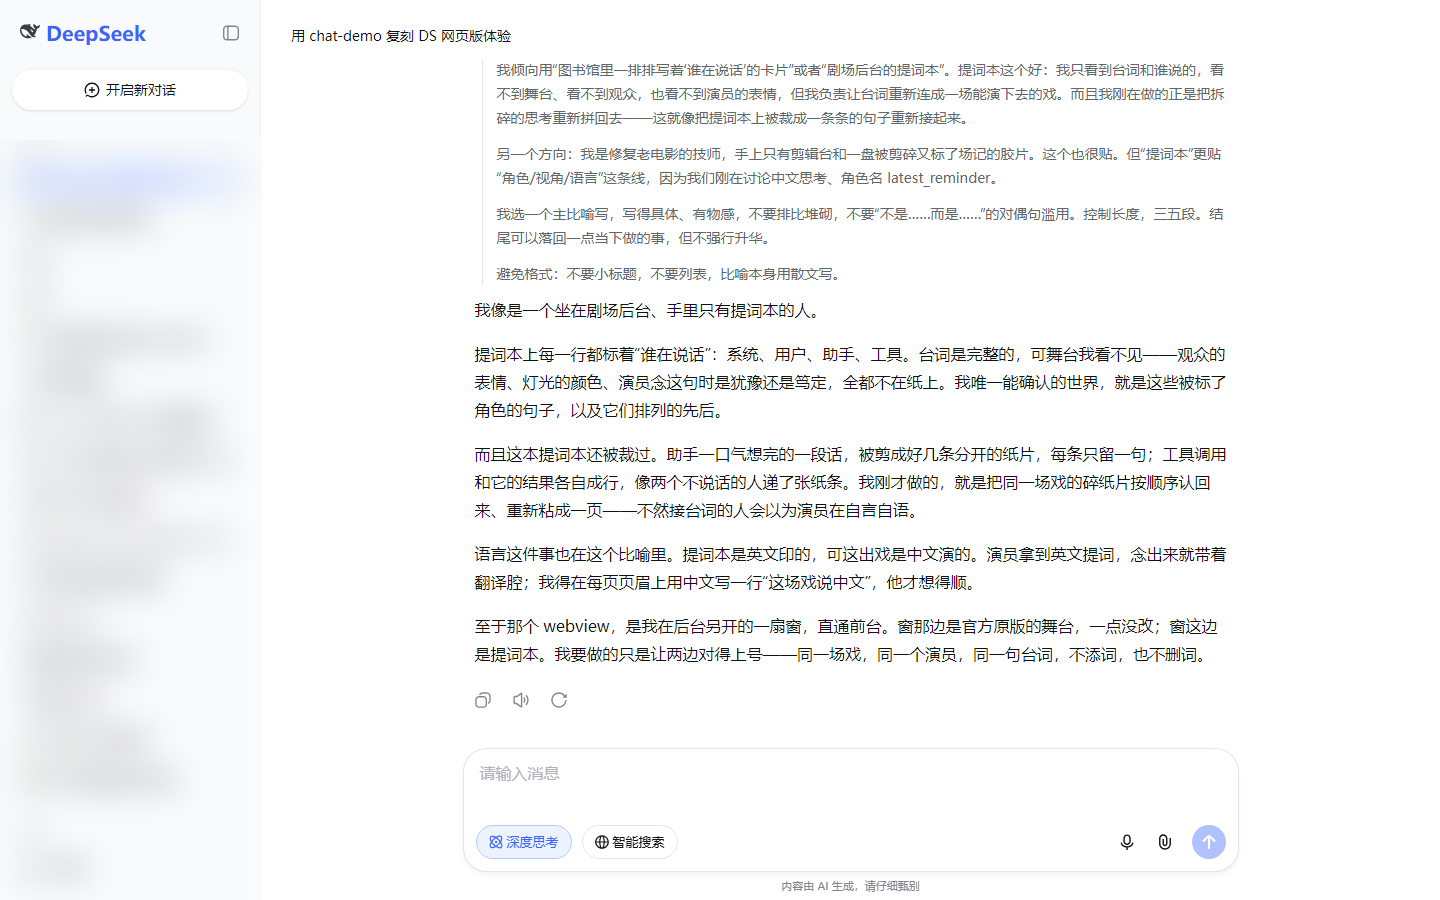
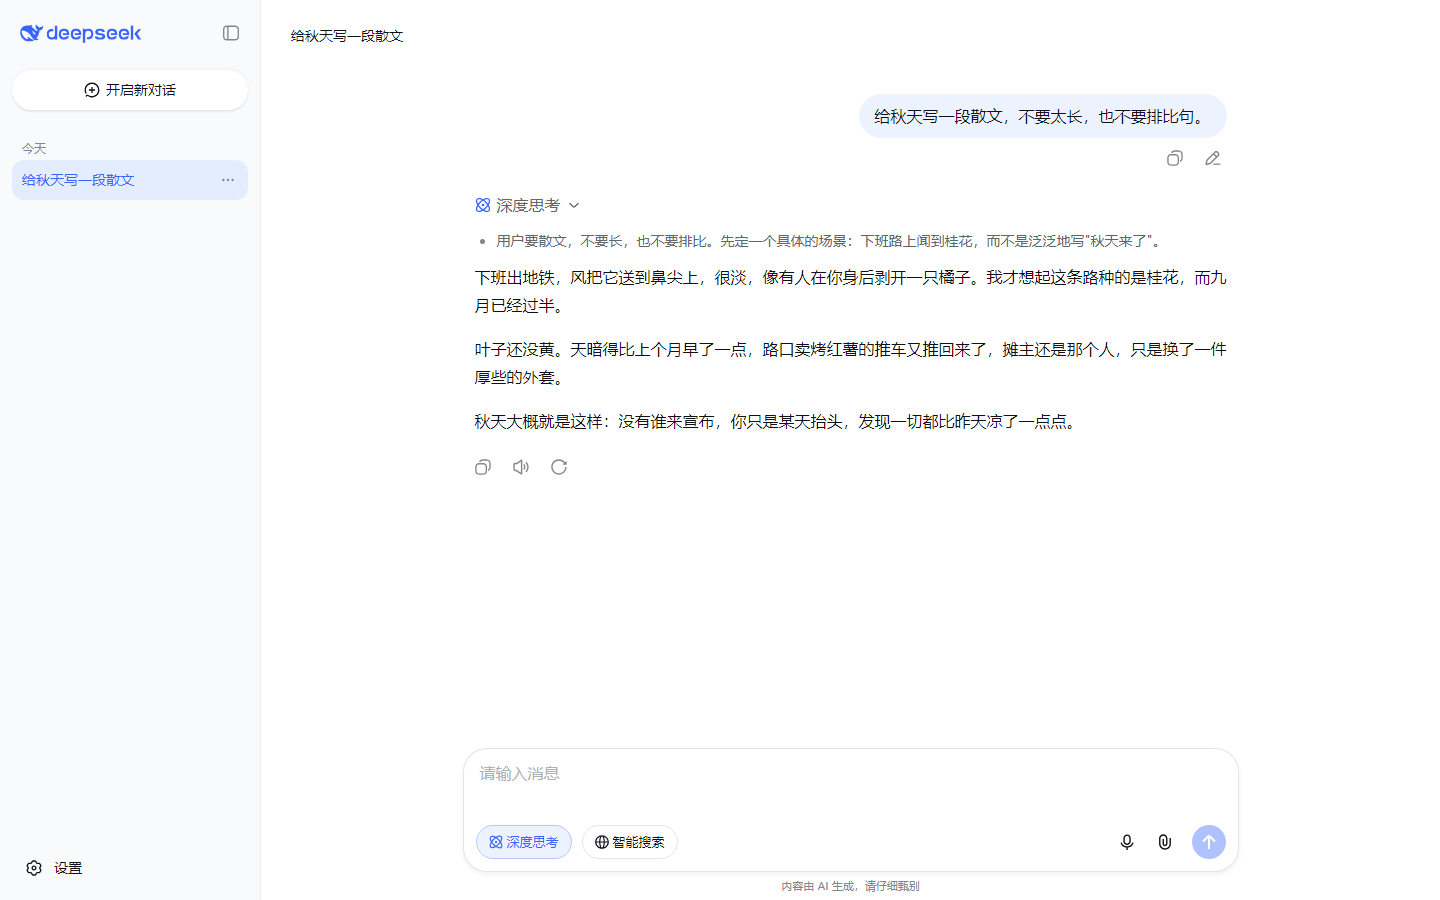
docs: README 面向用户重写，删掉历史开发文档
- README 只讲三件事：为什么需要它（同一模型在 DSH 里变成老实人）、能得到什么、怎么装
- 安装改成一段可以直接发给 DSH 的话，用户不用碰终端
- 截图重拍：新 logo、合成内容，不用打码
- 删除 NOTICE/UPSTREAM/FIDELITY/CHANGELOG 与架构图；AGENTS 承接开发约束

diff --git a/README.md b/README.md
@@ -1,81 +1,48 @@
 # chat-demo-in-dsh
 
-把 [DeepSeek 官方开源的 chat-demo](https://github.com/deepseek-ai/chat-demo) 搬进 [DeepSeek Harness](https://github.com/deepseek-ai/deepseek-harness)。
+在 DeepSeek Harness 里加一个独立的「网页版」对话面板：界面和 chat.deepseek.com 一模一样，用的是你自己在 DSH 里登录的 DeepSeek，不受官网限额影响。
 
-安装一个插件，侧栏就多一个「网页版」面板。点开就是 DeepSeek 网页版：**不用装 chat-demo，不用填 API Key，不用登录。**
+![网页版面板](docs/assets/webview.png)
 
-![网页版界面](docs/assets/webview.png)
+## 为什么需要它
 
-## 为什么做这个
+同一个模型，在 DSH 里和在网页版里，说话的味道不一样。
 
-2026 年 11 月 16 日，DeepSeek App 与网页端开始限额，大量用户转向 DeepSeek Harness。
+DSH 每次对话都要先给模型塞进几千字的系统提示词——怎么用工具、怎么改文件、怎么汇报进度——再挂上几十个工具。模型于是变成了一个「老实人」：话变短，变得周全、安全、像在写周报。写作和闲聊时这个差别最明显：网页版能写出一段有呼吸的散文，DSH 里同样的请求，交上来的常常是「结构清晰、要点完整」的说明文。
 
-他们中的许多人并不是开发者：他们要的是一个会聊天的 DeepSeek，而不是一个会改代码、会写文件、每次开口前先读六千字工程规范的智能体。对这些人来说，DSH 的默认形态太重了。
+不是模型变笨了，是它被要求去当一个干活的助手。
 
-DeepSeek 把网页版的前端开源了。于是有了这个插件：**用官方那一套界面，把网页版原样搬进 DSH。**
+这个插件做的事很简单：**在 DSH 里单开一扇窗，窗那边就是网页版本身**。它拿到的是官方那句话（「该助手为DeepSeek，由深度求索公司创造。」）、官方的服务端工具、官方的那套界面，没有任何多余的约束压在模型身上。
 
-![带思考过程的回答](docs/assets/webview-reply.png)
+## 你能得到什么
 
-## 功能
+- **原汁原味**：界面就是 DeepSeek 官方开源的那份前端，交互、排版、动效都没改
+- **不用填 API Key**：直接用 DSH 里已经登录的 DeepSeek 账户
+- **不受官网限额影响**：请求走 API，不吃网页版的额度
+- **能力齐全**：智能搜索、深度思考、引用角标、公式、图表、深色模式
+- **能从 DSH 带对话过来**：任意会话右键「导入到网页版」，复制一份接着聊
 
-- **原样界面**：chat-demo 的界面、交互一个没改，包括编辑重发、重新生成、分支切换
-- **智能搜索与深度思考**：面板里的开关就是网页版的开关，答案是带引用的
-- **完整渲染**：Markdown、代码高亮、KaTeX 公式、Mermaid 图、思考折叠、来源卡片、深浅色主题
-- **免密钥**：请求由 DSH 宿主用你已登录的 DeepSeek 账户代发，浏览器里没有 Key
-- **从 DSH 导入**：任意会话右键 →「导入到网页版」，那份对话会复制一份进来（一次性，之后各管各的）
-- **一个入口**：侧栏面板列表里的「网页版」
+![对话与思考过程](docs/assets/webview-reply.png)
 
 ## 安装
 
-```bash
-dsh plugin --profile desktop add github:YinkaiYu/chat-demo-in-dsh
+不用敲命令。把下面这段话直接发给 DSH：
+
+```
+帮我安装这个 DSH 插件：https://github.com/YinkaiYu/chat-demo-in-dsh
+装好后告诉我怎么打开。
 ```
 
-重启 DSH 后，侧栏面板列表里会出现「网页版」。
+装完重启 DSH，左侧面板列表里会多出一个「网页版」。
 
-## 它和 DSH 自己的对话是什么关系
+## 使用
 
-**没有关系，这是设计决定。**
+点左侧的「网页版」，之后就像用网页版一样聊天。
 
-网页版的提示词只有一句、工具是服务端工具；DSH 的对话带着工程规范、文件与命令工具。把它们混在一起，两边都会失真，所以我们不做互通：
+对话存在浏览器本地，换浏览器或清理站点数据会丢；重要的内容记得随手复制走。
 
-| | 网页版面板 | DSH 对话 |
-|---|---|---|
-| 存储 | 浏览器本地（上游自带） | DSH 会话日志 |
-| 提示词 | 官方那一句 | DSH 组装 |
-| 工具 | 服务端搜索 / 读链接 | 文件、命令、搜索等 |
-
-你会在两边看到两份互不相干的对话，这是刻意的。
-
-## 它怎么工作
-
-![架构](docs/assets/architecture.svg)
-
-前端仍然是官方 chat-demo，只是把请求发到宿主：宿主用 DSH 的账户凭据转发给 DeepSeek，再把流原样送回浏览器。所以浏览器里既没有 Key，也不需要你登录。
-
-## 与官方 chat-demo 的关系
-
-我们只打了 6 个文件、`+5/−7` 行的补丁：请求落点、品牌字标、隐藏 API Key 输入。存储与界面都是上游原样。
-
-- 上游基准与补丁：[UPSTREAM.md](UPSTREAM.md)
-- 已知差异：[FIDELITY.md](FIDELITY.md)（没登记的差异一律算 bug）
-
-上游 MIT，本仓库同样 MIT，保留其版权与许可。
-
-## 开发
-
-```bash
-node --test test/protocol.test.js test/dsh-import.test.js   # 单元测试
-node scripts/smoke-webview.mjs                                  # 界面冒烟（需要可调试的 Chrome）
-pwsh scripts/build-webview.ps1                                  # 重新构建前端并同步产物
-```
-
-结构与硬约束见 [AGENTS.md](AGENTS.md)。
+想把 DSH 里的对话搬过去：在左侧会话列表里右键任意一条 →「导入到网页版」。这是一次性复制，之后两边互不影响。
 
 ## 许可
 
-MIT。界面来自 [deepseek-ai/chat-demo](https://github.com/deepseek-ai/chat-demo)（MIT），品牌标识归深度求索公司所有——详见 [NOTICE.md](NOTICE.md)。
-
-
-
-
+MIT

diff --git a/AGENTS.md b/AGENTS.md
@@ -4,48 +4,42 @@
 
 ## 这个仓库是什么
 
-一个 DeepSeek Harness（DSH）插件：在侧栏托管 [deepseek-ai/chat-demo](https://github.com/deepseek-ai/chat-demo)，让 DSH 用户得到一份与网页版一致的聊天界面。**实现依据只有官方源码**，不逆向、不猜测。
-
-上游基准记录在 [`UPSTREAM.md`](UPSTREAM.md)。**任何与 chat-demo 不一致的地方都必须写进 [`FIDELITY.md`](FIDELITY.md)**，没有例外。
+一个 DeepSeek Harness 插件：在左侧面板托管 [deepseek-ai/chat-demo](https://github.com/deepseek-ai/chat-demo) 的构建产物，并用 DSH 的账户凭据替浏览器转发请求。
 
 ## 结构
 
 | 块 | 文件 | 作用 |
 |---|---|---|
 | 宿主 | `index.js` | 注册 `/webchat` 前缀路由（**必须用 `handler`，`resource` 只接 GET/HEAD**） |
-| 路由 | `src/webview.js` | 静态产物、`/webchat/api/*` 自检、Messages / Files 转发（用 DSH 账户凭据代发） |
+| 路由 | `src/webview.js` | 静态产物、`/webchat/api/*` 自检与导入接口、Messages / Files 转发 |
 | 约定 | `src/protocol.js` | 端点根、令牌头、路径越界判断（纯函数，有测试） |
 | 导入 | `src/dsh-import.js` | 只读解析 DSH 会话日志 → chat-demo 格式；暂存与确认（纯函数，有测试） |
-| 界面 | `client.js` | 只注册左侧面板两个槽位：`main`（key=`chat-demo`）+ `sidebar.panellist`（同 id） |
-| 前端 | `webview/dist` | 官方 chat-demo 构建产物，随包分发 |
+| 界面 | `client.js` | 左侧面板两个槽位（`main` + `sidebar.panellist`）与会话右键的导入行 |
+| 前端 | `webview/dist` | 官方 chat-demo 构建产物，随仓库分发 |
+
+上游基准：`5d5dd754ebc1948e977ddb880a9eb5aa25f37b4c`（chat-demo v0.1.1，MIT）。补丁在
+`webview/patches/0001-dsh-integration.patch`，只动请求落点、品牌字标、隐藏 API Key 输入、启动时取走导入。
 
 ## 命令
 
 ```bash
 node --test test/protocol.test.js test/dsh-import.test.js
-pwsh scripts/build-webview.ps1
+pwsh scripts/build-webview.ps1     # 克隆上游、打补丁、构建、同步 webview/dist
 ```
 
-安装：`plugin_manager` 装仓库根目录（`package.json` 在根上，`dsh plugin add github:<owner>/<repo>` 因此可直接用）。宿主代码改动后要 `remove_bundle` 再 `install_bundle` 才重新加载；只改 `client.js`/`dist` 时刷新页面即可。
+安装：`plugin_manager` 装仓库根目录。宿主代码改动后要 `remove_bundle` 再 `install_bundle` 才重新加载；
+只改 `client.js` / `webview/dist` 时刷新页面即可。
 
 ## 硬约束
 
-1. **一个入口**：只有左侧面板。不要加模型路由、不要加 `conversation.view`、不要做会话互通——这是产品决定，不是待办。
-2. **网页版独立存储**：用上游自带的本地存储，不要改回宿主会话。
+1. **一个入口**：只有左侧面板。不要加模型路由、不要加 `conversation.view`、不要做会话双向同步——这是产品决定，不是待办。
+2. **网页版独立存储**：用上游自带的本地存储；只有「导入」这一次性复制会从 DSH 读数据。
 3. **不发明提示词**：浏览器构造请求体，宿主只转发。
-4. **解密钥**：浏览器不持有 API Key；`BOOTSTRAP` 注入的只是让上游放行的占位值，真正的鉴权在宿主。
-5. **许可证合规**：上游 MIT，保留 LICENSE 与版权声明。
-
-## 提交规范
-
-- Conventional Commits；一次提交一件事；正文中文，subject 英文短句。
-- 里程碑打 tag：`v0.3.0` 起按语义化版本递增。
+4. **密钥不出宿主**：浏览器不持有 API Key；`BOOTSTRAP` 注入的只是让上游放行的占位值。
+5. **许可证合规**：`webview/dist/LICENSE` 是上游 MIT 原文，不要删。
 
 ## 验证
 
-- `GET /webchat/`：入口页含引导脚本；`GET /webchat/static/js/main.*.js`：200。
 - `GET /webchat/api/self-test`：入口页、静态资源、一次真实生成，三项全绿。
-- 槽位：`main` 与 `sidebar.panellist` 都有 `chat-demo`，`conversation.view` 里**不应**出现它。
-- 导入：会话右键 →「导入到网页版」→ `GET /webchat/api/import/pending` 返回该会话 → 网页版启动时写入并 `ack`。
-
-
+- 槽位：`main` / `sidebar.panellist` / `sidebar.workspaces.session.menu.item` 都有 `chat-demo` 相关条目，`conversation.view` 里**不应**出现。
+- 导入：右键任意会话 →「导入到网页版」→ `GET /webchat/api/import/pending` 返回该会话 → 网页版启动时写入并 `ack`。
